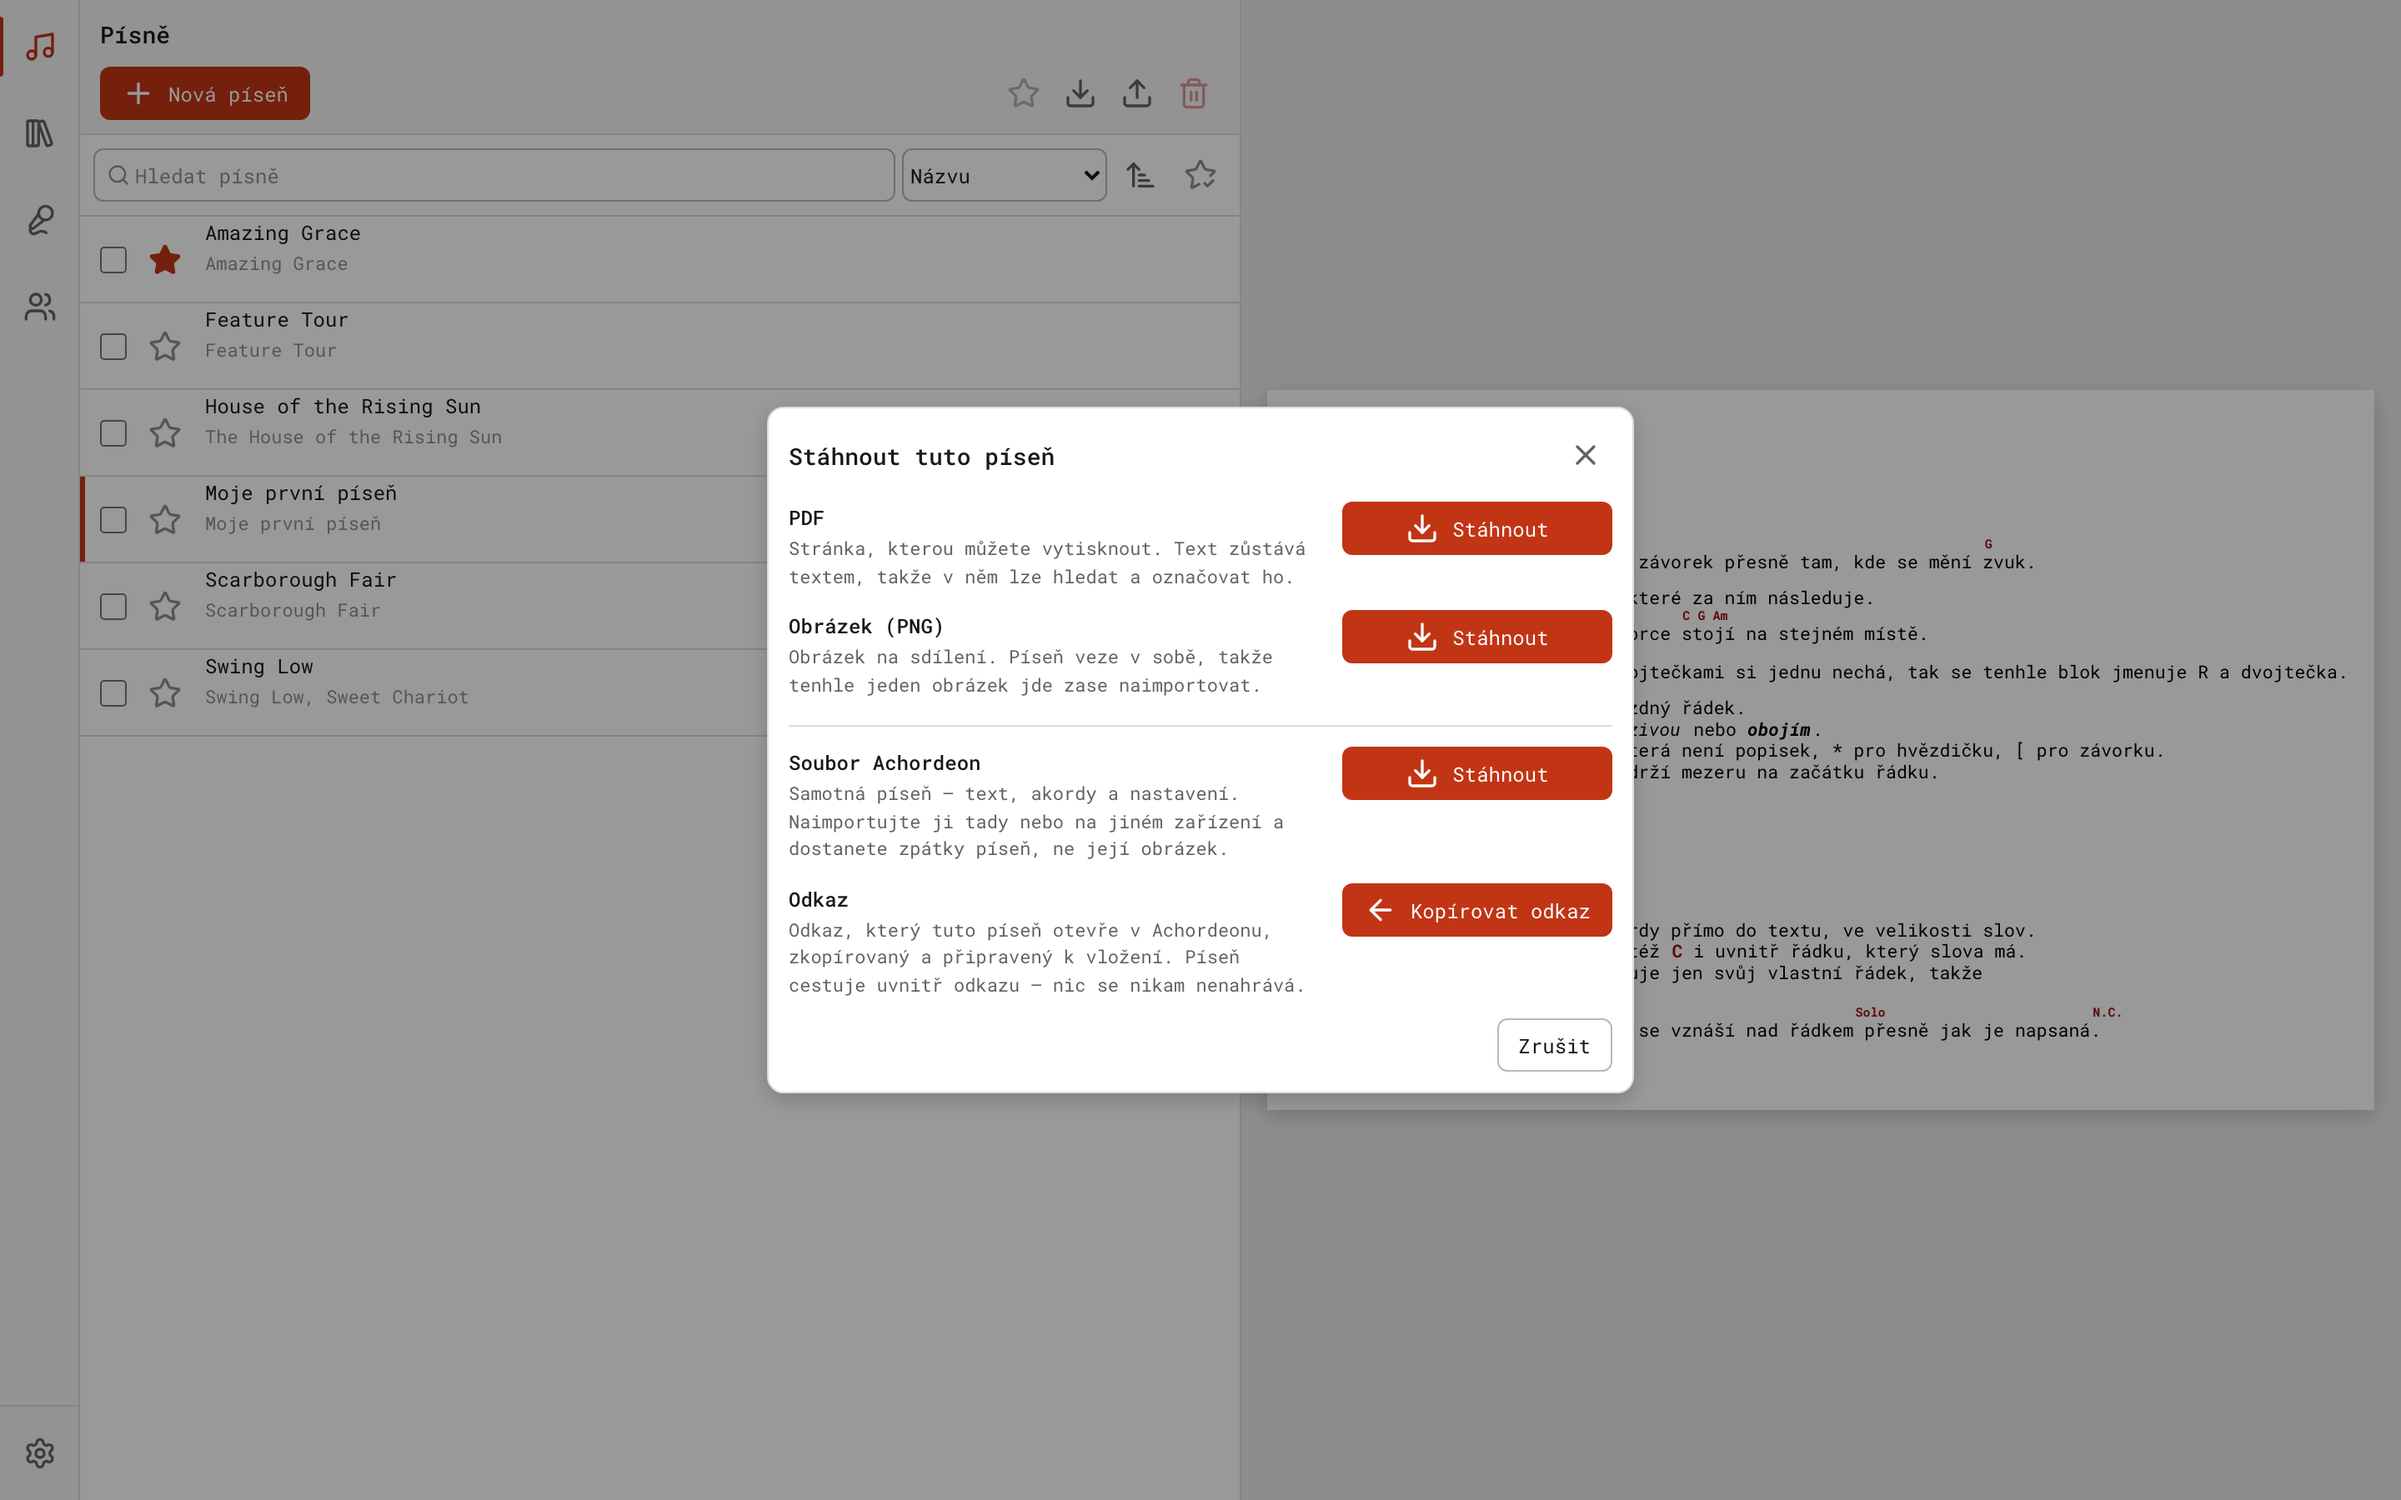
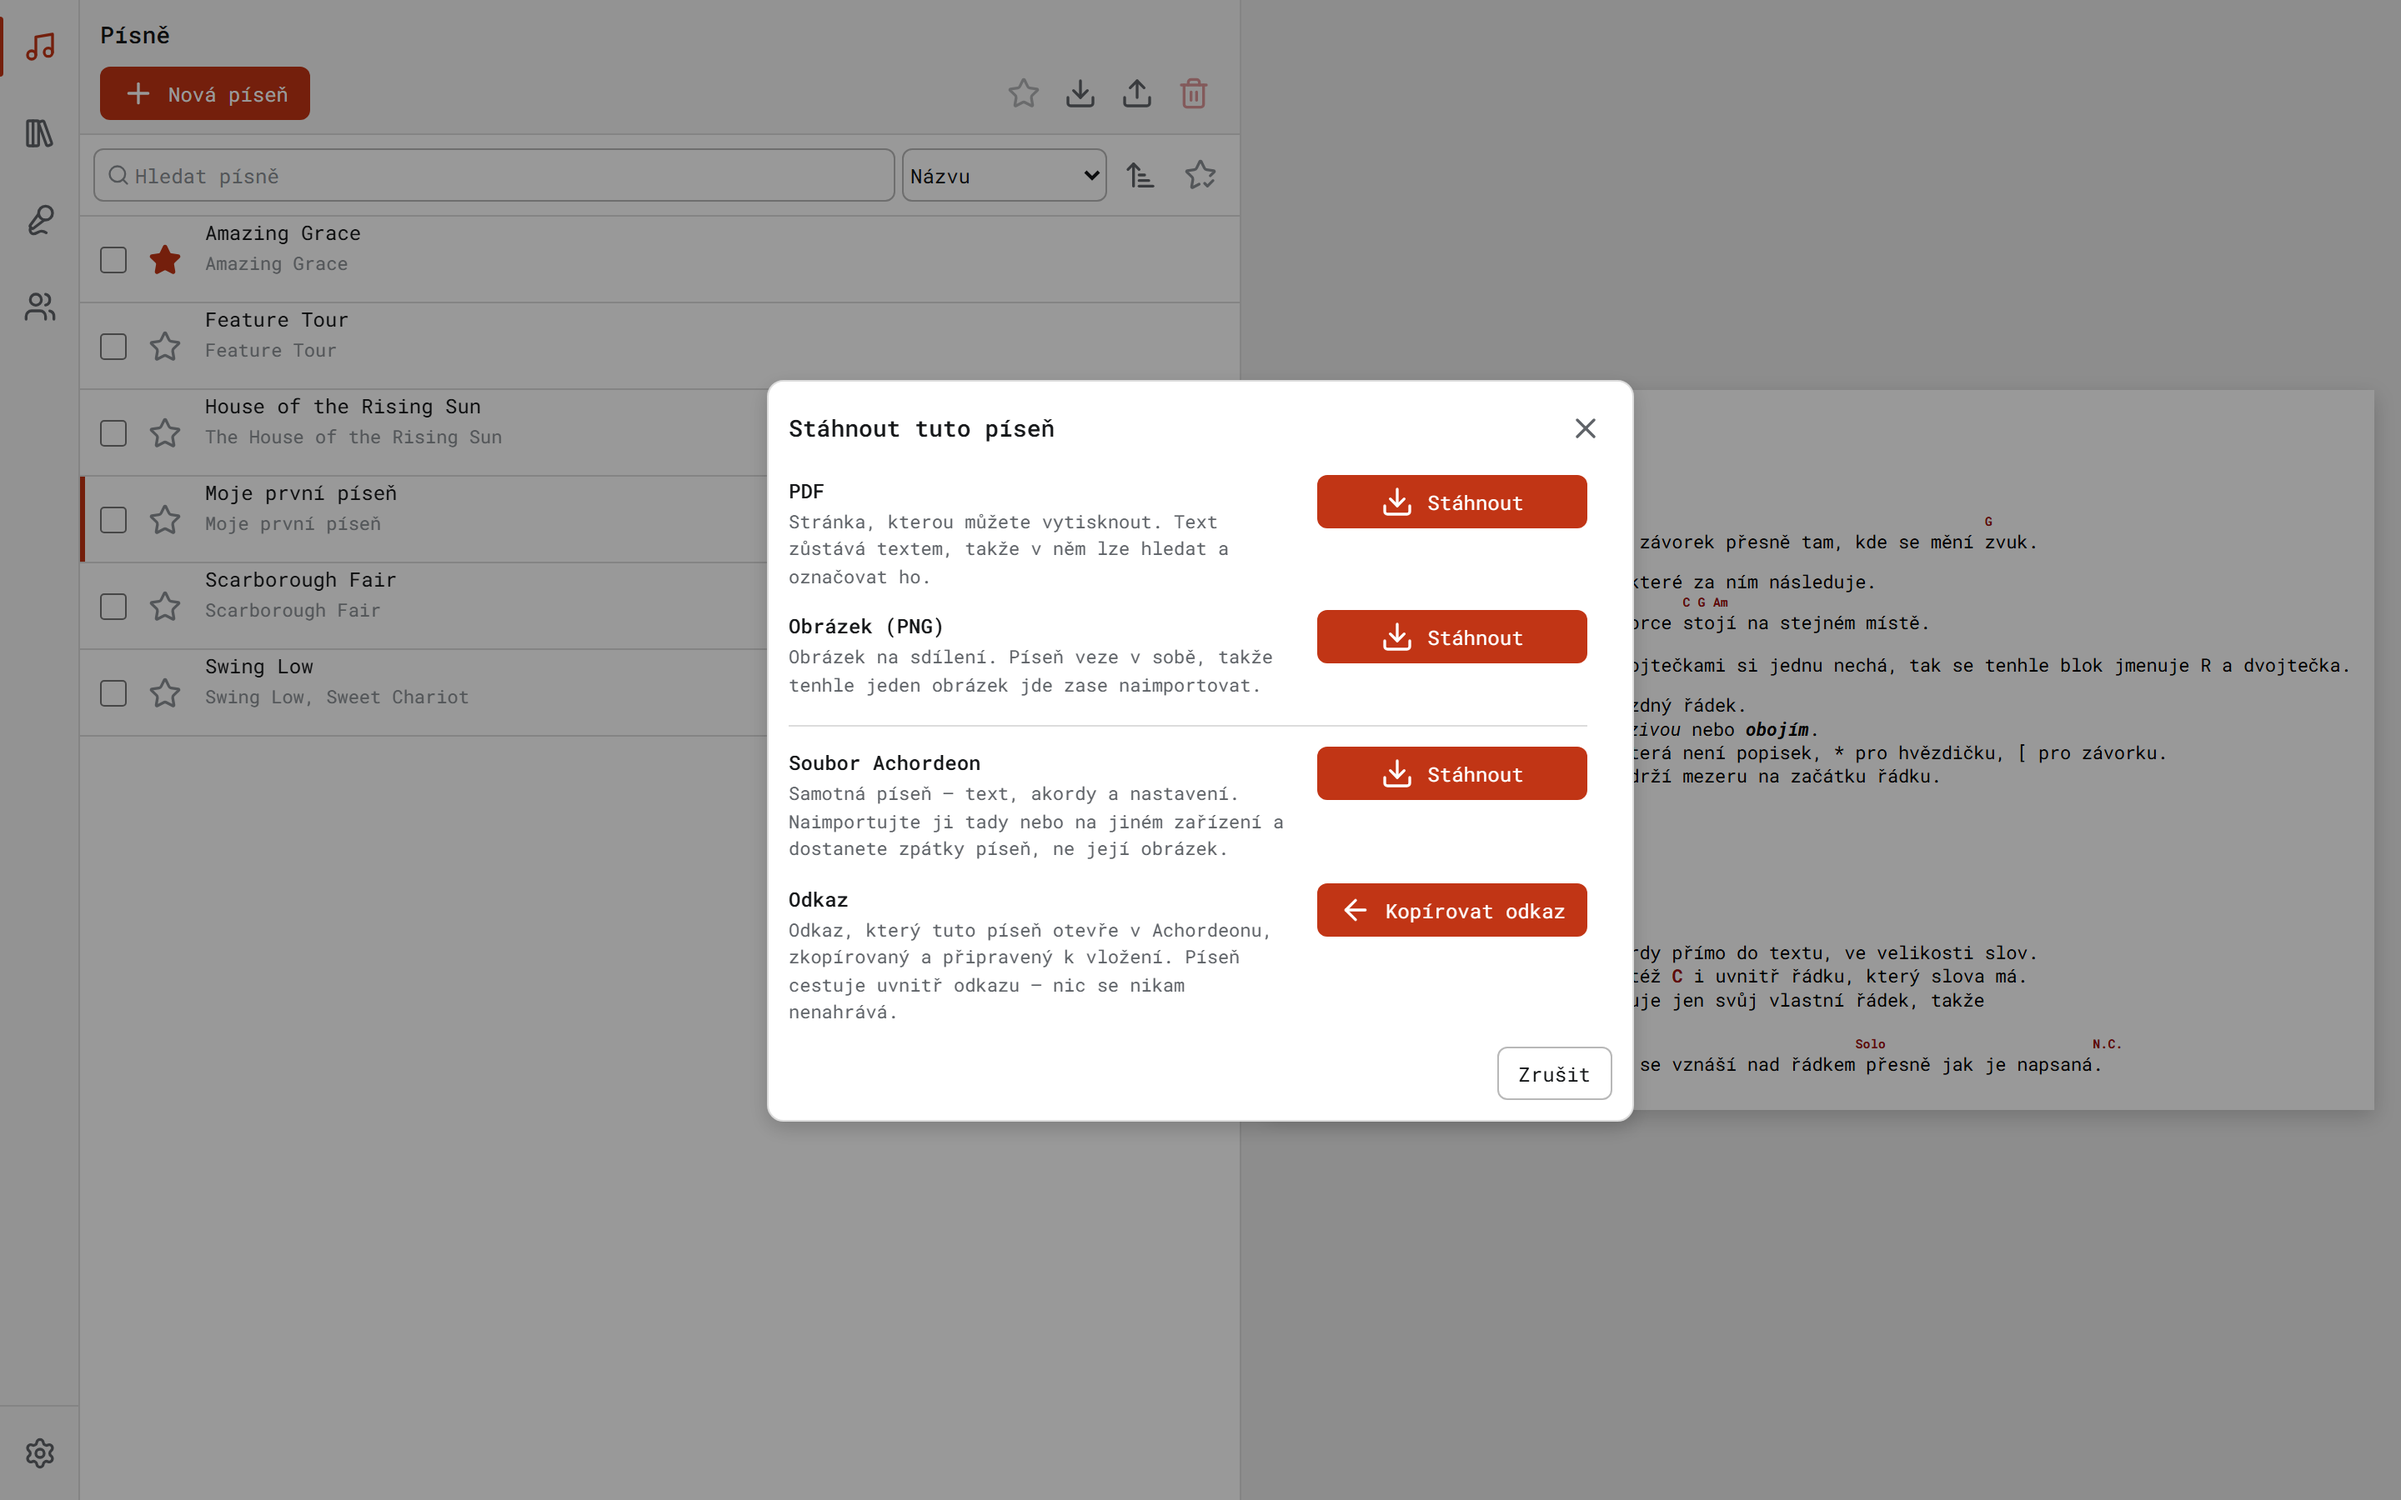
feat(app-e2e): pad clipped shots, and three for the songbook builder
A clipped shot was a locator screenshot - the element and nothing else -
which for a small subject crops so tight the picture loses what the thing
sits in. Screenshot the page through a box instead: `paddedClip` grows the
element's box by `pad` (24px by default) and clamps it to the viewport,
so an element against an edge does not ask for a negative coordinate.
`sidebar` opts out with pad 0; the rail IS its picture, and a halo there
is a strip of the page beside it.

`settle` now drops focus as well. A dialog captures it on open
(cdkTrapFocusAutoCapture) and the ring lands on its close button, so
every dialog shot carried one control ringed - which reads as "press
this" rather than "here is the dialog". That is why the download-dialog
images change here.

The three new ones are for the build-a-songbook tutorial:

- songbook-reorder ticks a slot first, because the four move buttons are
  dead without a selection and a picture of a disabled toolbar teaches
  the wrong thing. It clips the header strip rather than the toolbar: a
  halo around four buttons only crops their neighbours mid-word, and the
  strip has its own edges.
- songbook-preview reaches the dialog through `?preview=`, since an entry
  row's id is a slot key and not a song's. Uncropped on purpose - the
  step is "look at a song without leaving the list", and the builder
  behind the dialog is half of that sentence.
- songbook-settings is shot tall (1280x1500) because the dialog scrolls
[…]

diff --git a/apps/app-e2e/shots/manifest.ts b/apps/app-e2e/shots/manifest.ts
@@ -23,9 +23,14 @@ interface Common {
   readonly arrange: (page: Page) => Promise<void>;
 }
 
-/** A screenshot of the page, or of `clip` if given. */
+/** A screenshot of the page, or of the box around `clip` if given. */
 interface ViewShot extends Common {
-  readonly capture: { readonly mode: 'view'; readonly clip?: string };
+  readonly capture: {
+    readonly mode: 'view';
+    readonly clip?: string;
+    /** Room left around `clip`, in CSS pixels. Defaults to `DEFAULT_PAD`. */
+    readonly pad?: number;
+  };
   /** A selector that is present once the view is ready to be pictured. */
   readonly ready: string;
 }
@@ -90,7 +95,9 @@ export const SHOTS: readonly Shot[] = [
       await page.setViewportSize({ width, height });
     },
     ready: '[data-testid="rail"]',
-    capture: { mode: 'view', clip: '[data-testid="rail"]' },
+    // No padding: the rail IS the picture, and a halo would just be a strip of
+    // the page beside it (the viewport is already cut to the rail's height).
+    capture: { mode: 'view', clip: '[data-testid="rail"]', pad: 0 },
   },
 
   // The download dialog, opened over the songs page — its format options are
@@ -144,6 +151,67 @@ export const SHOTS: readonly Shot[] = [
     },
     ready: '[data-testid="songbook-detail"]',
     capture: { mode: 'view' },
+  },
+
+  // The book's reorder tools, live. The four buttons are dead until slots are
+  // ticked, so the shot picks one first — a picture of a disabled toolbar would
+  // teach the reader the wrong thing. Clipped: this is a step about four
+  // buttons, not about the module around them.
+  {
+    name: 'songbook-reorder',
+    arrange: async (page) => {
+      await seededGoto(page, 'songbooks');
+      const bookId = await firstBookId(page);
+      await page.goto(`songbooks/${bookId}`);
+      const slotKey = await firstRowId(page, 'entry-row');
+      await page.getByTestId(`select-${slotKey}`).click();
+    },
+    ready: '[data-testid="entry-tools"] button:not([disabled])',
+    // The book's header strip, not the toolbar alone: a 24px halo around four
+    // buttons only crops the neighbours mid-word. The strip has its own edges,
+    // so nothing in the picture is cut, and the four buttons are shown where
+    // they actually live — beside the book's name and its perform/download.
+    capture: { mode: 'view', clip: '[data-testid="action-bar"]', pad: 12 },
+  },
+
+  // The song preview over the builder — the dialog a row's preview opens, with
+  // its Edit. It reopens from the URL (`?preview=`), which is how this gets
+  // there: the song id comes from the library, since an entry row's id is a
+  // slot key and not a song's.
+  {
+    name: 'songbook-preview',
+    arrange: async (page) => {
+      await seededGoto(page, 'songs');
+      const songId = await firstRowId(page, 'song-row');
+      await page.goto('songbooks');
+      const bookId = await firstBookId(page);
+      await page.goto(`songbooks/${bookId}?preview=${songId}`);
+    },
+    // The whole window on purpose: the step is "look at a song WITHOUT leaving
+    // the list", and the dimmed builder behind the dialog is half of that
+    // sentence. Clipped to the panel it would just be a render.
+    ready: '[data-testid="song-preview-dialog"] svg',
+    capture: { mode: 'view' },
+  },
+
+  // The book's own settings dialog — the songbook scope of the cascade, which
+  // is what a tutorial step about restyling a whole book points at.
+  {
+    name: 'songbook-settings',
+    arrange: async (page) => {
+      await seededGoto(page, 'songbooks');
+      const bookId = await firstBookId(page);
+      await page.goto(`songbooks/${bookId}`);
+      await page.getByTestId('songbook-settings').click();
+    },
+    // Tall on purpose: the dialog scrolls at 900, and a picture of a settings
+    // panel cut off mid-list teaches the reader that the list ends there.
+    viewport: { width: 1280, height: 1500 },
+    ready: '[data-testid="songbook-settings-dialog"]',
+    capture: {
+      mode: 'view',
+      clip: '[data-testid="songbook-settings-dialog"] .panel',
+    },
   },
 
   // Stage: the picker that lists what can be performed.

diff --git a/apps/app-e2e/shots/harness.ts b/apps/app-e2e/shots/harness.ts
@@ -112,7 +112,12 @@ export async function firstRowId(
 
 /**
  * Make the frame reproducible: freeze animations and transitions, hide the text
- * caret, and wait for web fonts so glyphs are not swapped in after capture.
+ * caret, drop focus, and wait for web fonts so glyphs are not swapped in after
+ * capture.
+ *
+ * Focus is dropped because a dialog captures it on open (`cdkTrapFocusAutoCapture`)
+ * and the ring lands on its close button — a docs picture with one control
+ * ringed reads as "press this", which is not what the step is pointing at.
  */
 export async function settle(page: Page): Promise<void> {
   await page.addStyleTag({
@@ -127,7 +132,38 @@ export async function settle(page: Page): Promise<void> {
       }
     `,
   });
+  await page.evaluate(() => {
+    (document.activeElement as HTMLElement | null)?.blur?.();
+  });
   await page.evaluate(() => document.fonts.ready);
+}
+
+/** How much room a clipped shot leaves around its subject, in CSS pixels. */
+export const DEFAULT_PAD = 24;
+
+/**
+ * The box to screenshot for a clipped shot: the element's own, grown by `pad`
+ * on every side and clamped to the viewport.
+ *
+ * A locator screenshot is the element and nothing else, which for a small
+ * subject — four buttons, one field — crops so tight that the picture loses what
+ * the thing sits in. Padding puts it back on its shelf. Clamping matters because
+ * an element against an edge would otherwise ask for a box that starts at a
+ * negative coordinate, which is not a clip Playwright will take.
+ */
+export async function paddedClip(
+  page: Page,
+  selector: string,
+  pad: number = DEFAULT_PAD,
+): Promise<{ x: number; y: number; width: number; height: number }> {
+  const box = await page.locator(selector).first().boundingBox();
+  if (!box) throw new Error(`"${selector}" has no box to clip.`);
+  const view = page.viewportSize() ?? { width: box.width, height: box.height };
+  const x = Math.max(0, box.x - pad);
+  const y = Math.max(0, box.y - pad);
+  const right = Math.min(view.width, box.x + box.width + pad);
+  const bottom = Math.min(view.height, box.y + box.height + pad);
+  return { x, y, width: right - x, height: bottom - y };
 }
 
 /** Copy the file a download produced to `dest`. */

diff --git a/apps/app-e2e/shots/shoot.spec.ts b/apps/app-e2e/shots/shoot.spec.ts
@@ -11,6 +11,7 @@ import {
   DEFAULT_VIEWPORT,
   contextFor,
   outputPath,
+  paddedClip,
   saveDownload,
   settle,
   type Locale,
@@ -39,10 +40,14 @@ for (const shot of SHOTS) {
           await page.locator(shot.ready).first().waitFor({ state: 'visible' });
           await settle(page);
 
-          const target = shot.capture.clip
-            ? page.locator(shot.capture.clip).first()
-            : page;
-          await target.screenshot({ path: dest });
+          // A clipped shot screenshots the PAGE through a box, not the element:
+          // an element screenshot is the element and nothing else, and a subject
+          // cropped to its own edges loses what it sits in (`paddedClip`).
+          const { clip, pad } = shot.capture;
+          await page.screenshot({
+            path: dest,
+            ...(clip ? { clip: await paddedClip(page, clip, pad) } : {}),
+          });
         } else {
           const waiting = page.waitForEvent('download', { timeout: 60_000 });
           await shot.capture.act(page);
